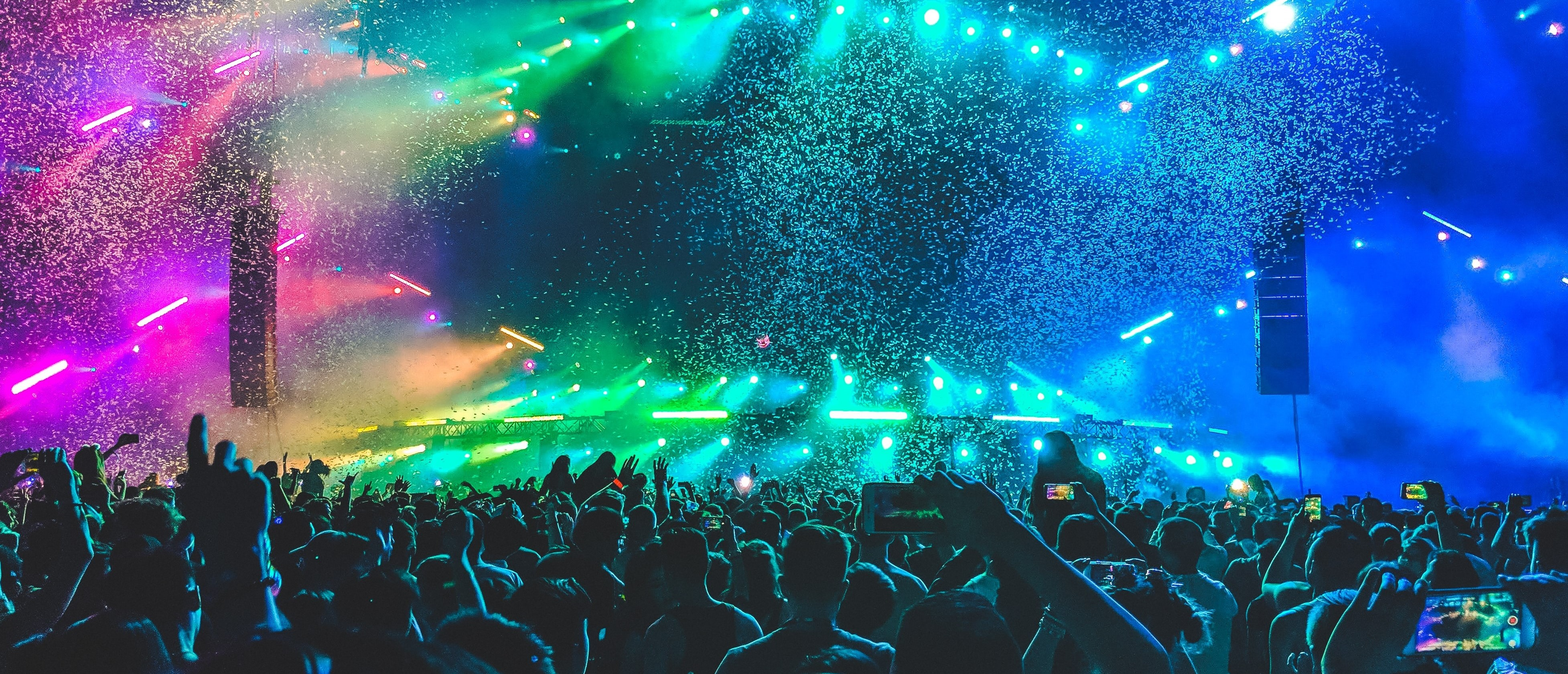
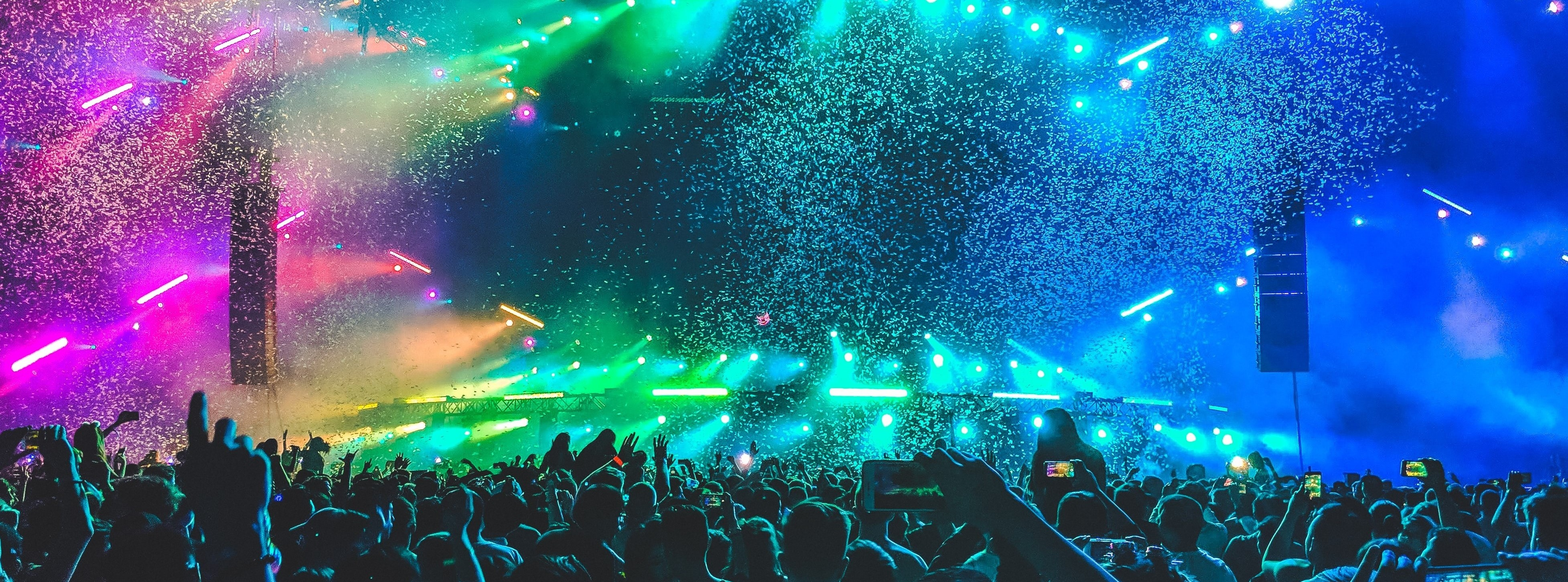
main and subheading initial
i spell checked the content of the subheading and main. i added the supplied images and text and made them have the write font that matches the navigation. i styled the subheading to match the heading and aesthetic of the website

diff --git a/src/routes/+page.svelte b/src/routes/+page.svelte
@@ -7,11 +7,36 @@
 <Header />
 
 <main>
-  <h2>SvelteKit</h2>
+  <h2>Home</h2>
 
-  <p>Welcome to coding with SvelteKit, a modern JavaScript framework that makes it easy to code great apps.</p>
+  <img class="photo" src="/jade-masri.jpg" alt="group of young adults having fun ontop of each others shoulderss" />
+  <p>Welcome to the ultimate music festival experience! Get ready for a day filled with live music, great food, and unforgettable memories. Our festival features a diverse lineup of talented musicians from different genres, sure to satisfy every taste in music. With multiple stages set up throughout the venue, you can easily move from one act to the next, discovering new favorites and enjoying classic hits. From up-and-coming artists to established headliners, we have curated an exciting lineup that will keep you dancing and singing along all day long. Our festival is the perfect opportunity to discover new music, see your favorite artists live, and make lasting memories with friends and family.</p>
+  <p>But the music is just the beginning. Our festival also boasts an impressive selection of food vendors, offering everything from classic festival fare to more gourmet options. You won't go hungry with the delicious treats and refreshing beverages available throughout the venue. In addition to the music and food, our festival also features a variety of activities to keep you entertained throughout the day. From art installations to merchandise booths, there is something for everyone to enjoy. You can even capture the memories with our festival photo booths and snap a selfie with your favourite artists. So don't miss out on this one-of-a-kind music festival experience. Get your tickets now and join us for a day of music, fun, and community. We can't wait to see you there!</p>
+  <img class="photo" src="/james-genchi.jpg" alt="large crowd of people cherring towads stage while confitie falls" />
 </main>
 
 <footer>
   <p>&copy; Craighead Diocesan School 2024</p>
 </footer>
+
+<style>
+  @import url('https://fonts.googleapis.com/css2?family=Rock+Salt&display=swap');
+  @import url('https://fonts.googleapis.com/css2?family=Krona+One&family=Rock+Salt&display=swap');
+  h2 {
+    background-color: rgb(249, 125, 193);
+    padding: 20px;
+    font-size: x-large;
+    color: black;
+    text-align: center;
+    font-family: 'Rock Salt', cursive;
+    font-weight: 800;
+  }
+  p {
+    font-family: 'Krona One', sans-serif;
+    font-weight: 800;
+    padding-top: 20px;
+  }
+  .photo {
+    width: 500px;
+  }
+</style>

diff --git a/src/lib/Header.svelte b/src/lib/Header.svelte
@@ -12,7 +12,7 @@
   }
   .container {
     width: 3000px;
-    height: 653px;
+    height: 565px;
     display: flex;
     justify-content: center;
     align-items: center;
